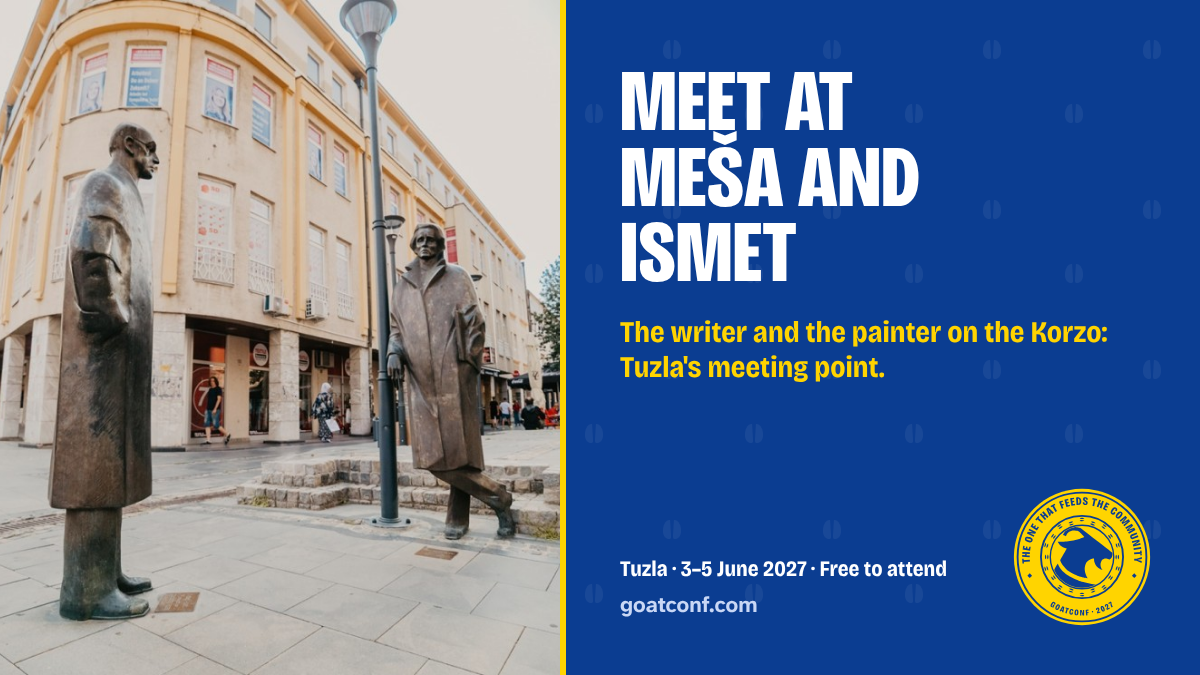
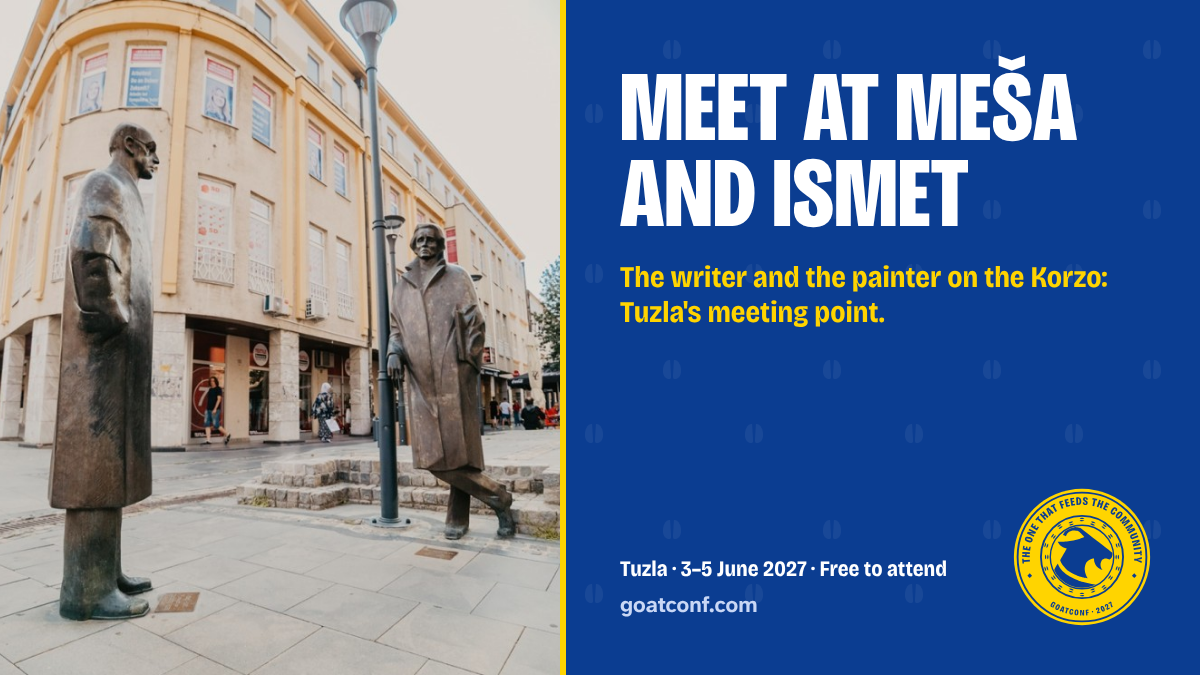
drumbeat: set Meša and Ismet's title across the card's width
The title was forced into three short lines in a narrow column. It now
takes the card's full width and wraps into two even lines, larger on
the wide card. A photo post's title without set line breaks does this;
the other photo posts keep their breaks and render as before. The photo
still carries no credit.

Sources: sources/conversations/2026-11-07--org--mesa-and-ismet-photo.md
Restricted paths: files/tools/shareables.py

Changed region(s): [[0.4933, 0.0622, 0.925, 0.56]]

diff --git a/files/tools/shareables.py b/files/tools/shareables.py
@@ -234,7 +234,7 @@ PHOTO_POSTS = {
     "city-of-salt": ("A city of<br>salt", "Tuzla takes its name from tuz, the Turkish for salt.", "img/city-aerial-summer.jpg", "Photo: Grad Tuzla"),
     "seven-thousand-years": ("7,000<br>years", "Neolithic people boiled salt here, in houses on stilts.", "img/city-archaeological-park.jpg", "Photo: Grad Tuzla"),
     # The Tuesday Tuzla posts (wiki/org/outreach/drumbeat.md): the two statues facing each other, the Korzo behind.
-    "mesa-and-ismet": ("Meet at<br>Meša and<br>Ismet", "The writer and the painter on the Korzo: Tuzla's meeting point.",
+    "mesa-and-ismet": ("Meet at Meša and Ismet", "The writer and the painter on the Korzo: Tuzla's meeting point.",
                        "img/korzo-mesa-and-ismet.jpg", "", ("50% 60%", "40% 50%")),
 }
 
@@ -242,33 +242,30 @@ PHOTO_POSTS = {
 def photo_post(w: int, h: int, title: str, line: str, img: str, credit: str, square: bool,
                focus: tuple[str, str] = ("50% 50%", "50% 50%")) -> str:
     """A post with a photo: the photo on top (square) or on the left (wide), its credit on it if it has one, the words
-    beside. A three-line title gets a taller photo and smaller words on the square card, so the words still fit."""
+    beside. A title without set line breaks takes the card's full width and wraps into even lines."""
     src = (SITE / img).as_uri()
     cred = (f'<div style="position:absolute; left:18px; bottom:14px; font-size:20px; font-weight:700; '
             f'text-shadow:0 1px 4px rgb(0 0 0 / .8)">{esc(credit)}</div>') if credit else ""
     if square:
-        tall = title.count("<br>") >= 2
-        band, word, sub, facts, url, seal_size, bottom = ((580, 88, 31, 28, 26, 220, 50) if tall
-                                                          else (540, 112, 38, 30, 28, 230, 64))
         return page(w, h, f"""
-<div style="position:absolute; left:0; top:0; width:{w}px; height:{band}px; overflow:hidden">
+<div style="position:absolute; left:0; top:0; width:{w}px; height:540px; overflow:hidden">
   <img src="{src}" style="width:100%; height:100%; object-fit:cover; object-position:{focus[0]}">{cred}</div>
-<div class="rule" style="position:absolute; left:0; top:{band}px; width:{w}px; border-radius:0"></div>
-<div style="position:absolute; left:84px; top:{band + (46 if tall else 60)}px; right:330px">
-  <div class="word" style="font-size:{word}px">{title}</div>
-  <div class="sub" style="font-size:{sub}px; line-height:1.15; margin-top:{20 if tall else 30}px">{line}</div>
+<div class="rule" style="position:absolute; left:0; top:540px; width:{w}px; border-radius:0"></div>
+<div style="position:absolute; left:84px; top:600px; right:84px">
+  <div class="word" style="font-size:112px; text-wrap:balance">{title}</div>
+  <div class="sub" style="font-size:38px; line-height:1.15; margin-top:30px; margin-right:246px">{line}</div>
 </div>
-<div style="position:absolute; left:84px; bottom:{bottom}px">
-  <div class="sub" style="font-size:{facts}px; color:#fff">{FACTS}</div>
-  <div class="url" style="font-size:{url}px; margin-top:{8 if tall else 10}px">{URL}</div>
+<div style="position:absolute; left:84px; bottom:64px">
+  <div class="sub" style="font-size:30px; color:#fff">{FACTS}</div>
+  <div class="url" style="font-size:28px; margin-top:10px">{URL}</div>
 </div>
-{seal(seal_size, f"right:64px; bottom:{bottom + 6 if tall else 64}px")}""")
+{seal(230, "right:64px; bottom:64px")}""")
     return page(w, h, f"""
 <div style="position:absolute; left:0; top:0; width:560px; height:{h}px; overflow:hidden">
   <img src="{src}" style="width:100%; height:100%; object-fit:cover; object-position:{focus[1]}">{cred}</div>
 <div class="rule" style="position:absolute; left:560px; top:0; width:6px; height:{h}px; border-radius:0"></div>
 <div style="position:absolute; left:620px; top:64px; right:56px">
-  <div class="word" style="font-size:88px">{title}</div>
+  <div class="word" style="font-size:{88 if "<br>" in title else 100}px; text-wrap:balance">{title}</div>
   <div class="sub" style="font-size:30px; line-height:1.15; margin-top:24px">{line}</div>
 </div>
 <div style="position:absolute; left:620px; bottom:56px; right:200px">
